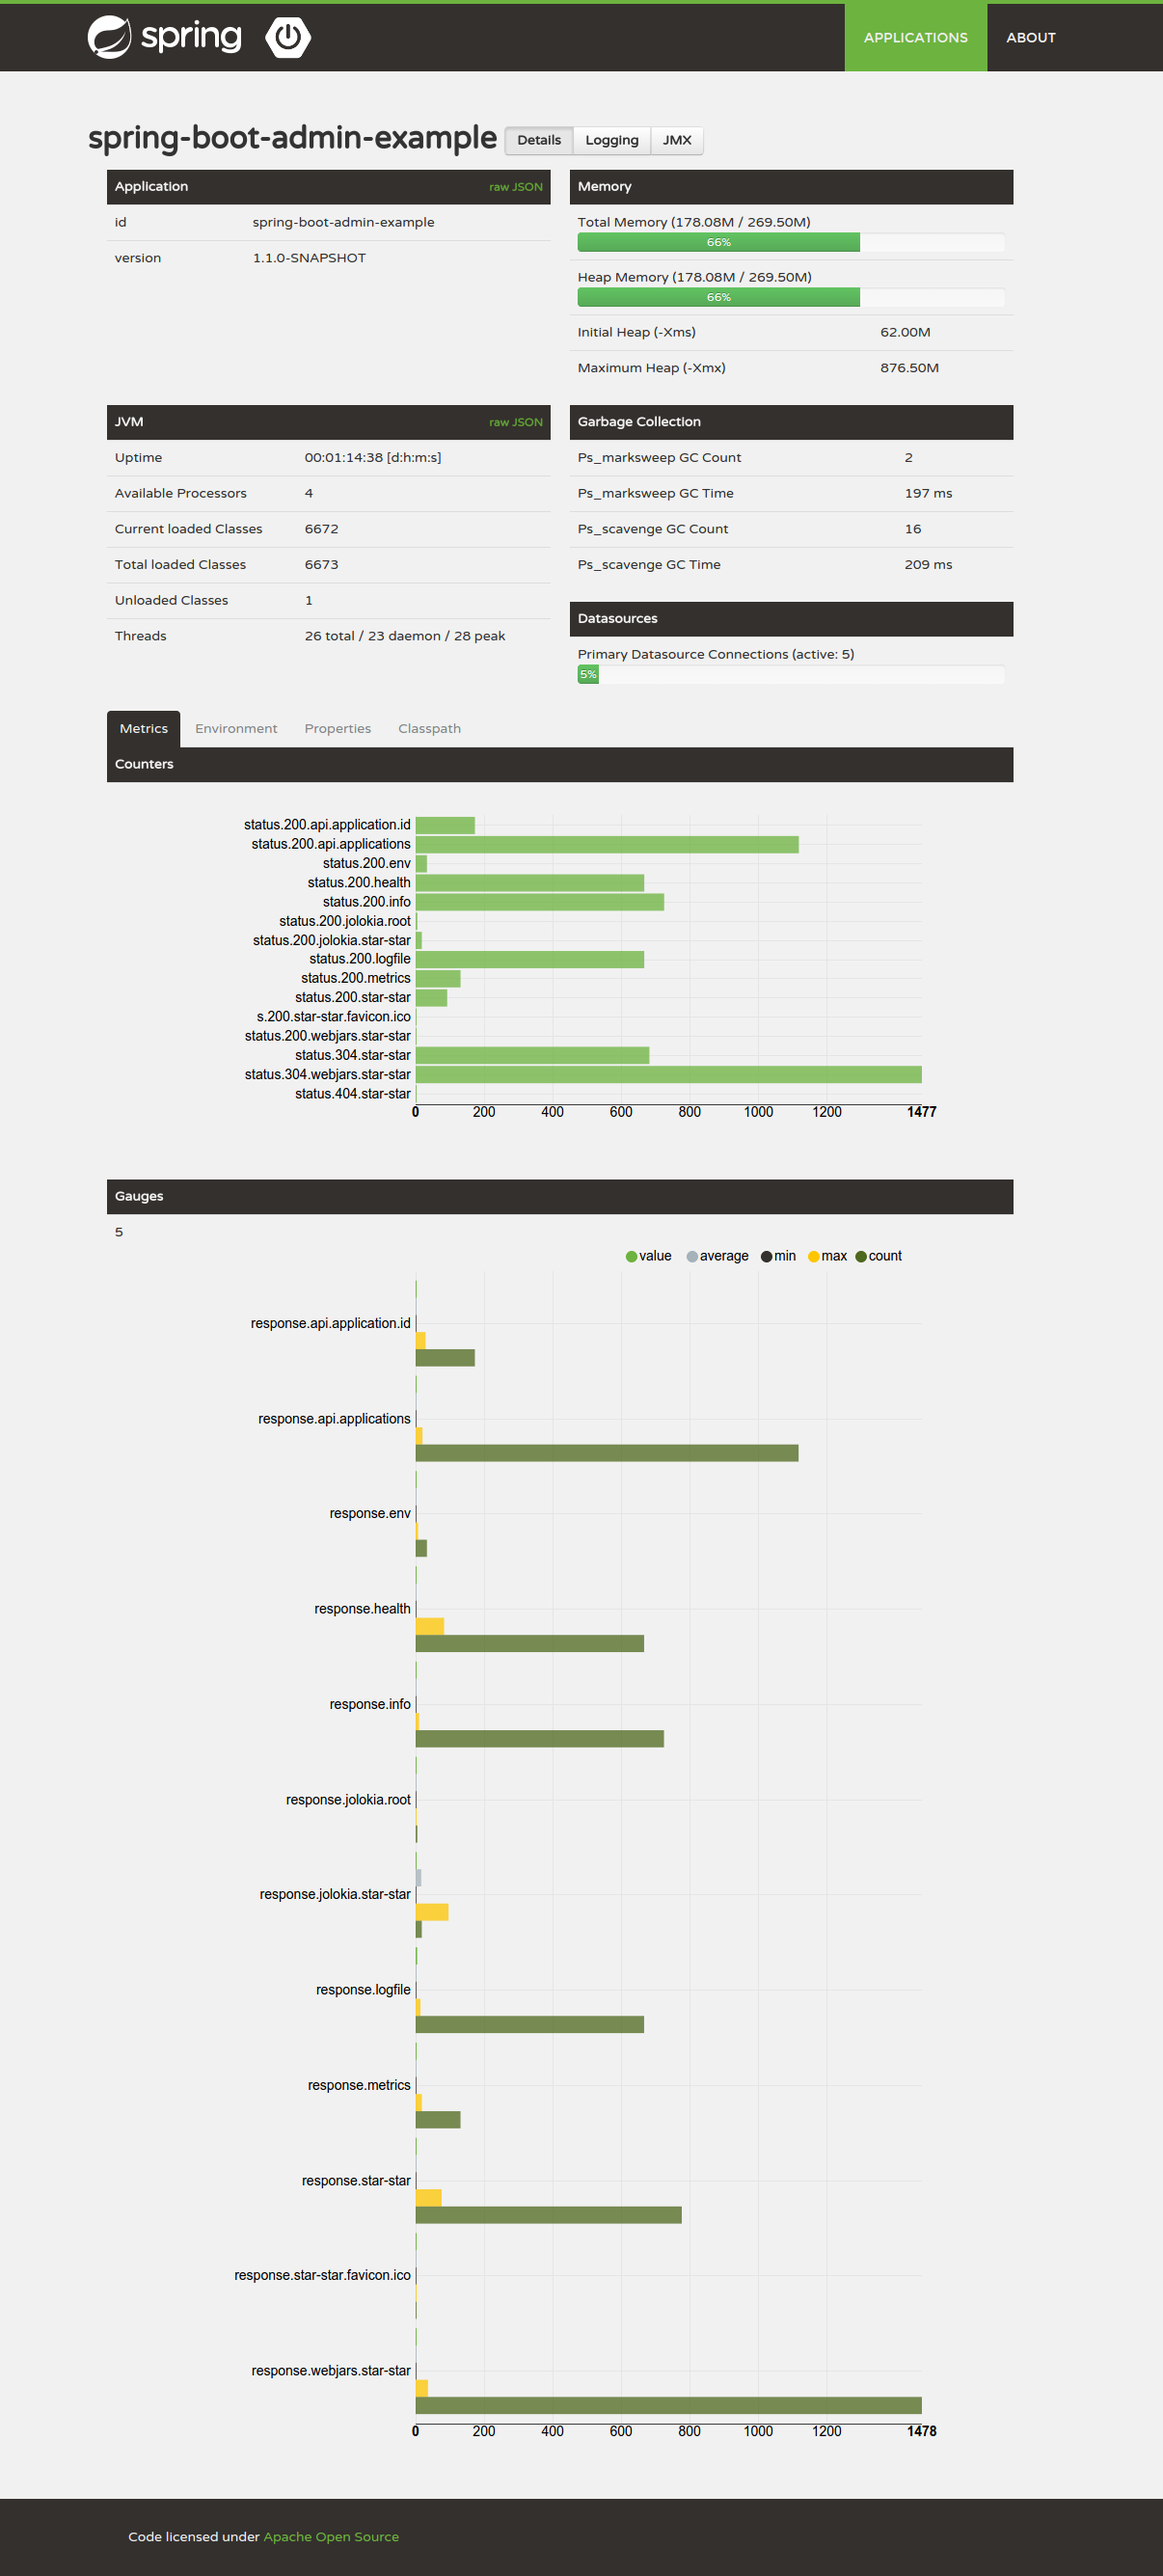
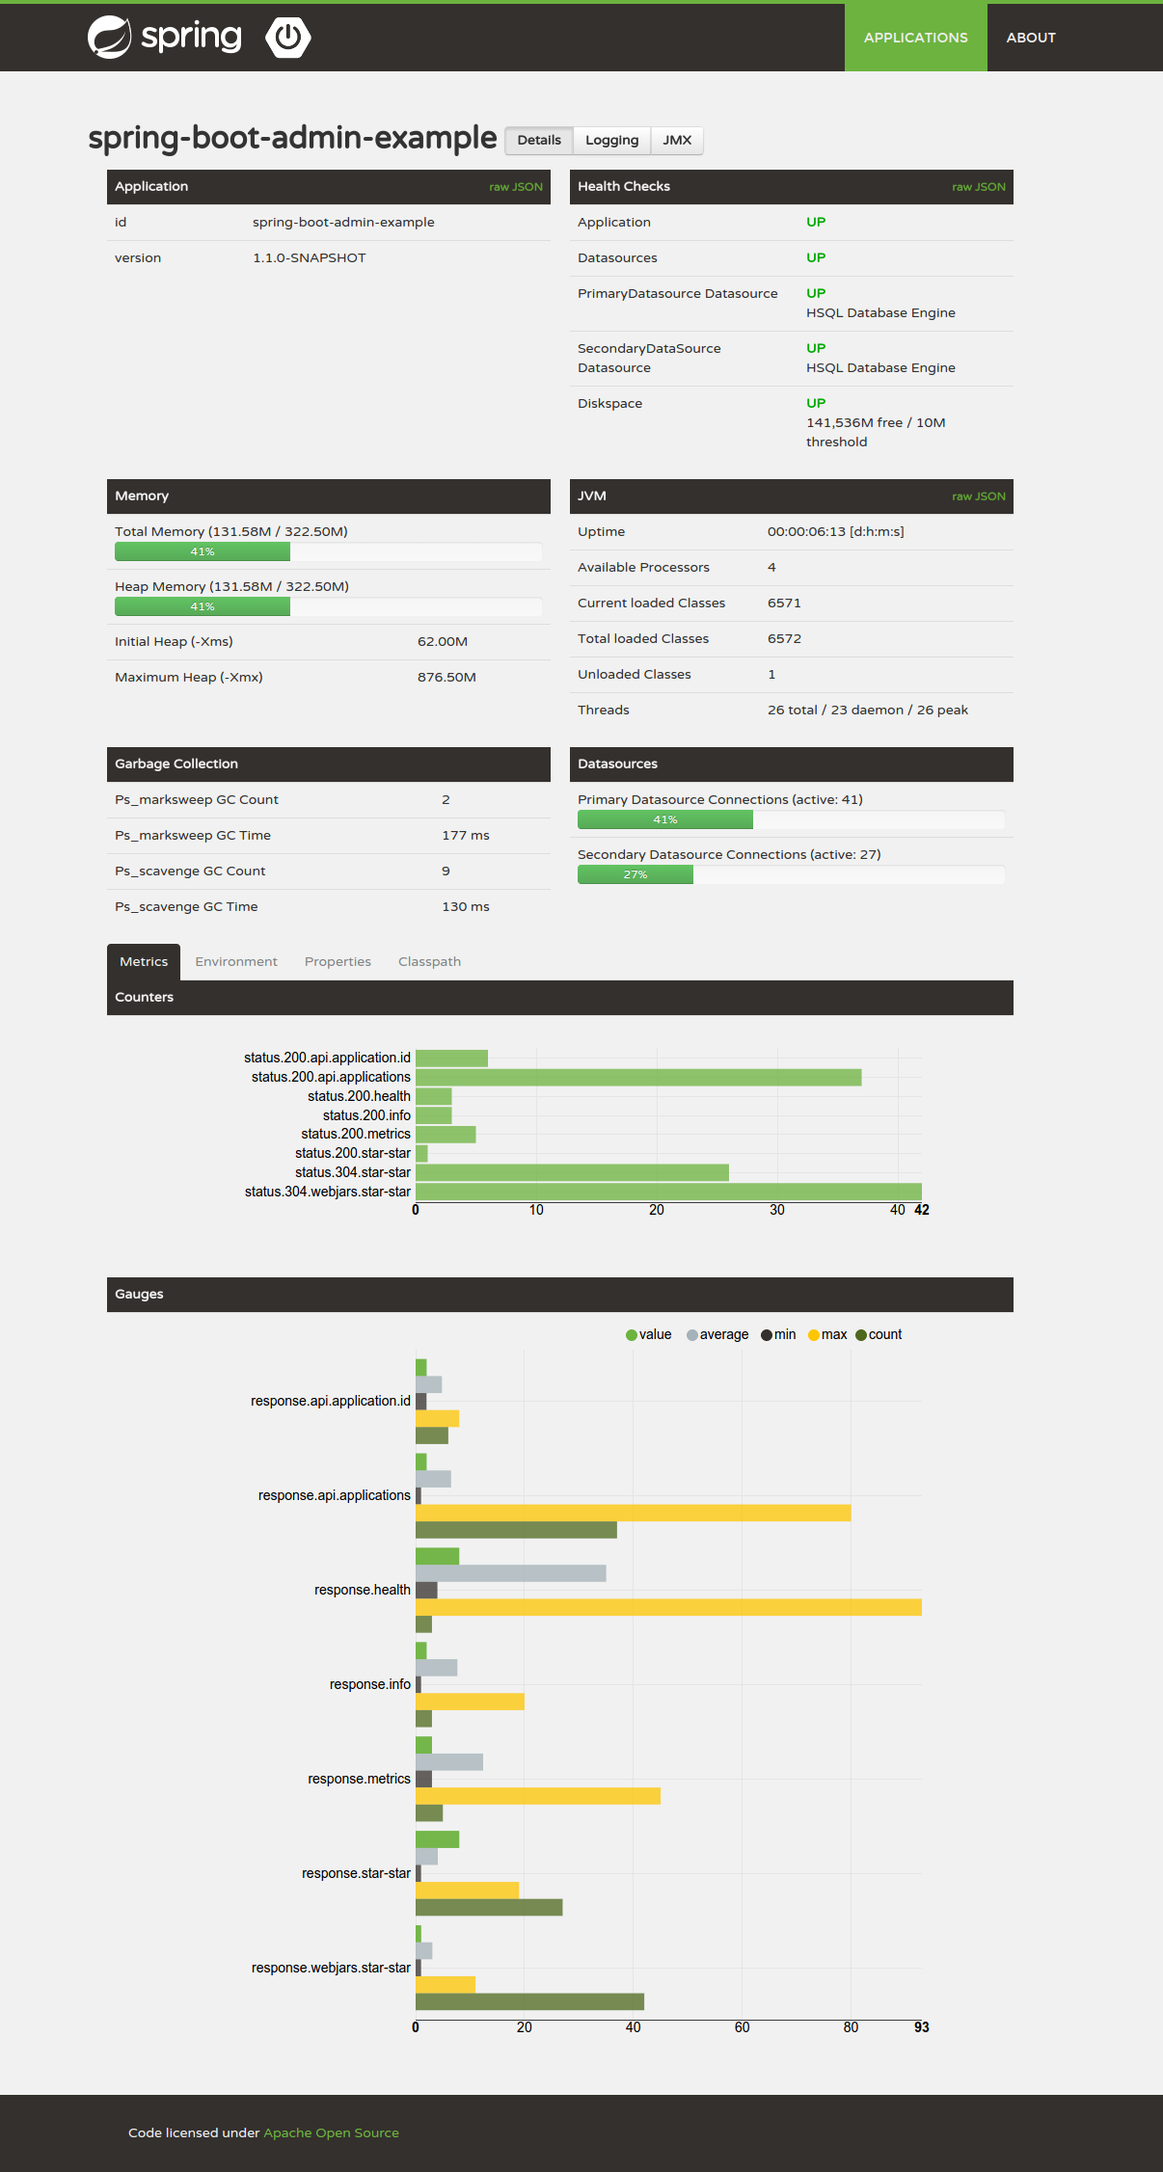
* added health section to details with disk and datasource infos * fixed health display when application is DOWN

Changed region(s): [[0.0, 0.0, 1.0, 0.9942]]

diff --git a/spring-boot-admin-server/src/main/webapp/public/scripts/services/services.js b/spring-boot-admin-server/src/main/webapp/public/scripts/services/services.js
@@ -39,20 +39,16 @@ angular.module('springBootAdmin.services', ['ngResource'])
   			});
   		}
   		this.getHealth = function(app) {
-  			return $http.get(app.url + '/health').success(function(response) {
-  				if (typeof(response) === 'string' && response.indexOf('ok') != -1 
-  						|| typeof(response.status) === 'string' && 
-							(response.status.indexOf('ok') != -1 || response.status.indexOf('UP') != -1)) { 
-  					app.up = true;
-  				} else if (typeof(response.status) === 'string' && response.status.indexOf('DOWN') != -1) { 
-  					app.down = true;
-  				} else if (typeof(response.status) === 'string' && response.status.indexOf('OUT-OF-SERVICE') != -1) { 
-  					app.outofservice = true;
+  			return $http.get(app.url + '/health').success(function (response) {
+  				app.status = response.status;
+  			}).error(function (response, httpStatus) {
+  				if (httpStatus === 503) {
+  					app.status = response.status;
+  				} else if (httpStatus === 404) {
+  					app.status = 'OFFLINE';
   				} else {
-  					app.unknown = true;
+  					app.status = 'UNKNOWN'; 
   				}
-  			}).error(function() {
-  				app.offline = true;
   			});
   		}
   		this.getLogfile = function(app) {
@@ -78,6 +74,10 @@ angular.module('springBootAdmin.services', ['ngResource'])
   		this.getEnv = function(app) {
   			return $http.get(app.url + '/env');
   		}
+  		this.getHealth = function(app) {
+  			return $http.get(app.url + '/health');
+  		}
+
   	}])
   	.service('ApplicationLogging', ['$http' , 'Jolokia', function($http, jolokia) {
   		var LOGBACK_MBEAN = 'ch.qos.logback.classic:Name=default,Type=ch.qos.logback.classic.jmx.JMXConfigurator';

diff --git a/spring-boot-admin-server/src/main/webapp/public/views/apps/details.html b/spring-boot-admin-server/src/main/webapp/public/views/apps/details.html
@@ -13,6 +13,40 @@
    </table>
 </div>
 
+ <div class="span6">
+	<table class="table">
+		<thead>
+			<tr><th>Health Checks</th><th><small class="pull-right"><a href="{{ application.url }}/health">raw JSON</a></small></th></tr>
+		</thead>
+		<tbody>
+			<tr>
+				<td>Application</td><td><span class="status-{{health.status}}">{{ health.status }}</span></td>
+			</tr>
+		
+			<tr ng-if="health.db">
+				<td>Datasources</td>
+				<td><span class="status-{{health.db.status}}">{{ health.db.status }}</span><br>
+					{{health.db.database}}
+				</td>
+			</tr>
+			<tr ng-if="health.db.error" colspan="2" class="alert alert-error" >{{ health.db.error }}</td></tr>
+	
+			<tr ng-repeat-start="(dbname, db) in health.db" ng-if="dbname != 'status' && dbname != 'error' && dbname != 'database' && dbname != 'hello'" >
+				<td>{{ dbname | capitalize }} Datasource</td><td><span class="status-{{db.status}}">{{ db.status }}</span><br>
+					{{db.database}}
+				</td>
+			</tr>
+			<tr ng-repeat-end ng-if="db.error"><td colspan="2" class="alert alert-error" >{{ db.error }}</td></tr>
+			<tr ng-if="health.diskSpace">
+				<td>Diskspace</td><td><span class="status-{{health.diskSpace.status}}">{{ health.diskSpace.status }}</span><br>
+					{{ health.diskSpace.free / 1024 / 1024 | number:0 }}M free / {{ health.diskSpace.threshold / 1024 / 1024 | number:0 }}M threshold
+				</td>
+			</tr>
+		</tbody>
+	</table>
+</div>
+
+
 <div class="span6">
   <table class="table">
     <thead><tr><th colspan="2">Memory</th></tr></thead>

diff --git a/spring-boot-admin-server/src/main/webapp/public/views/overview.html b/spring-boot-admin-server/src/main/webapp/public/views/overview.html
@@ -19,15 +19,9 @@
 			<tr ng-repeat="application in applications track by application.id">
 				<td>{{ application.id }}</td>
 				<td>{{ application.version }}</td>
+				<td><span class="status-{{application.status}}">{{ application.status }}</span></td>
 				<td>
-					<span ng-show="application.up" class="up">UP</span>
-					<span ng-show="application.down" class="down">DOWN</span>
-					<span ng-show="application.outofservice" class="oufofservice">OUT OF SERVICE</span>
-					<span ng-show="application.unknown" class="unknown">UNKNOWN</span>
-					<span ng-show="application.offline" class="offline">OFFLINE</span>
-				</td>
-				<td>
-					<span ng-show="application.up" style="float:right">
+					<span class="pull-right" ng-hide="application.status == null || application.status == 'OFFLINE'">
 						<a ng-disabled="!application.providesLogfile" target="_self" class="btn btn-success" ng-href="{{application.urlLogfile}}"><i class="icon-file icon-white"></i>Logfile</a>
 						<a ui-sref="apps.details.metrics({id: application.id})" class="btn btn-success">Details</a>
 						<a ui-sref="apps.logging({id: application.id})" class="btn btn-success">Logging</a>

diff --git a/spring-boot-admin-server/src/main/webapp/public/scripts/controllers/controllers.js b/spring-boot-admin-server/src/main/webapp/public/scripts/controllers/controllers.js
@@ -21,7 +21,7 @@ angular.module('springBootAdmin')
 
   		$scope.loadData = function() {
   			Applications.query(function(applications) {
-	  			for (var i in applications) {
+  				for (var i = 0; i< applications.length; i++) {
 	  				var app = applications[i];
 	  				ApplicationOverview.getVersion(app);
 	  				ApplicationOverview.getHealth(app);
@@ -55,6 +55,12 @@ angular.module('springBootAdmin')
   				$scope.info = info;
   			}).error( function(error) {
   				$scope.error = error;
+  			});
+  			
+  			ApplicationDetails.getHealth(application).success(function(health) {
+  				$scope.health = health;
+  			}).error( function(health) {
+  				$scope.health = health;
   			});
   			
   			ApplicationDetails.getMetrics(application).success( function(metrics) {

diff --git a/spring-boot-admin-server/src/main/webapp/public/styles/main.css b/spring-boot-admin-server/src/main/webapp/public/styles/main.css
@@ -150,24 +150,26 @@ a:hover.spring-boot-logo span {
 
 /** Status in Application Overview-View **/
 
-span.up {
+span.status-UP {
 	color: #00AA00;
+	font-weight: bold;
 }
-
-span.offline {
+ 
+span.status-OFFLINE {
+	color: #000000;
+	font-weight: bold;
+}
+ 
+span.status-DOWN,
+span.status-OUT_OF_SERVICE {
 	color: #DD0000;
 	font-weight: bold;
 }
-
-span.down, span.outofservice {
-	color: #FF8800;
+ 
+span.status-UNKNOWN {
 	font-weight: bold;
+	color: #FF8800;
 }
-
-span.unknown {
-	color: #DDDDDD;
-}
-
 
 /** Headings and Tabs in Detail-View  **/
 .accordion-heading ,

diff --git a/spring-boot-admin-server/src/main/webapp/public/views/apps/details/metrics.html b/spring-boot-admin-server/src/main/webapp/public/views/apps/details/metrics.html
@@ -29,7 +29,7 @@
 	</thead>
 	<tbody>    	
     	<tr>
-    		<td> {{gaugeData.length}}
+    		<td>
 				<div class="center-block" style="width: 800px; height: {{ 75 + gaugeData[0].values.length * ( gaugeData.length * 10 ) }}px; position:relative;  overflow: hidden;">
 					<nvd3-multi-bar-horizontal-chart id="gaugesChart" nodata="not available" 
 									data="gaugeData"
